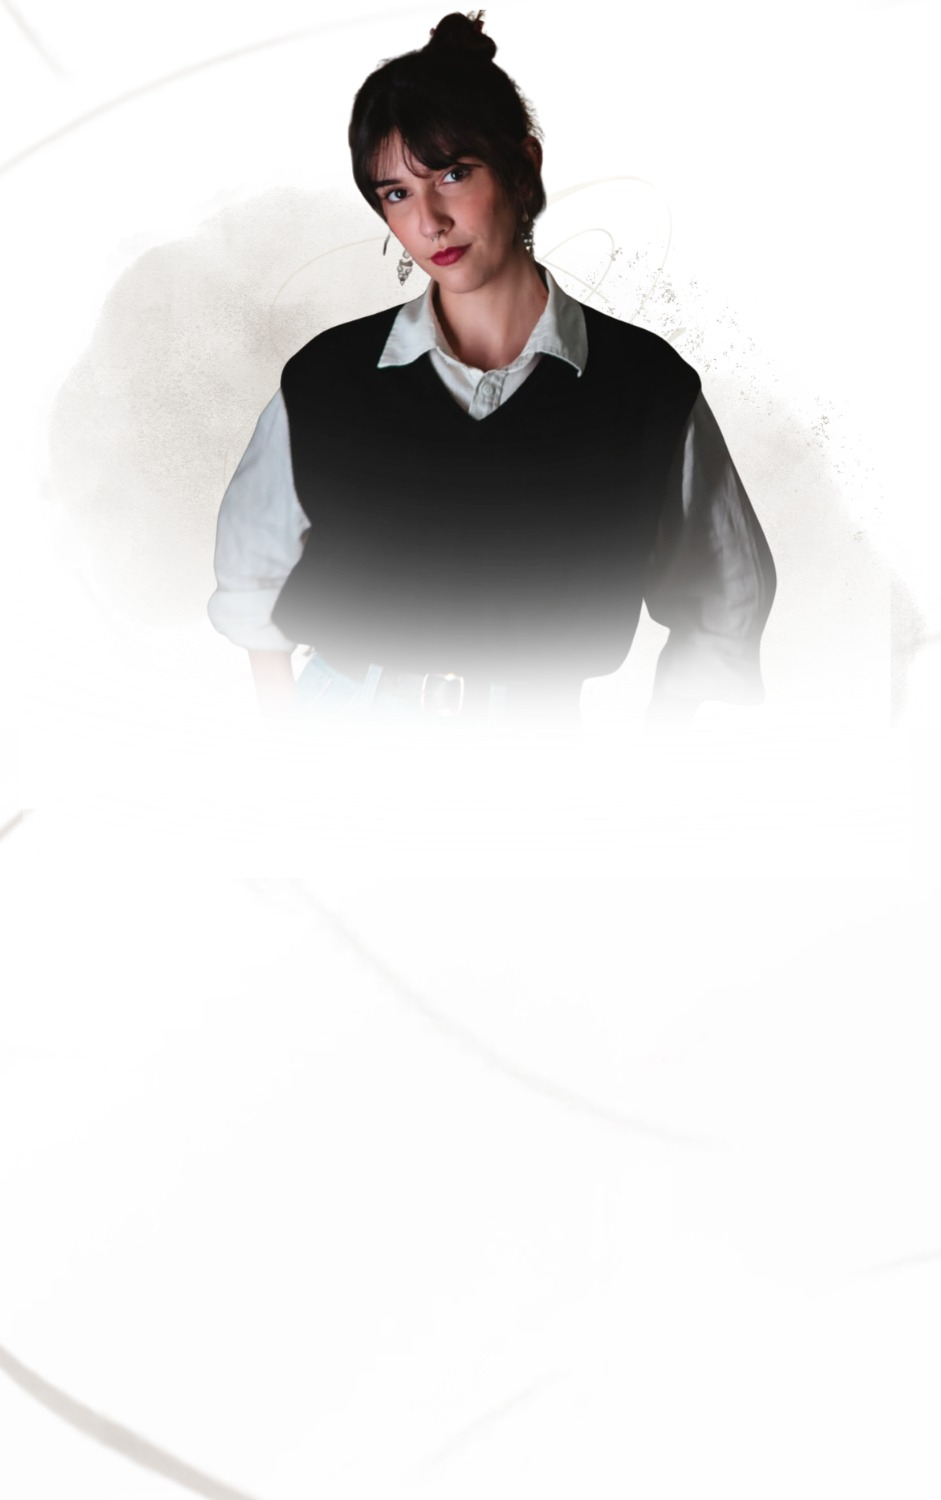
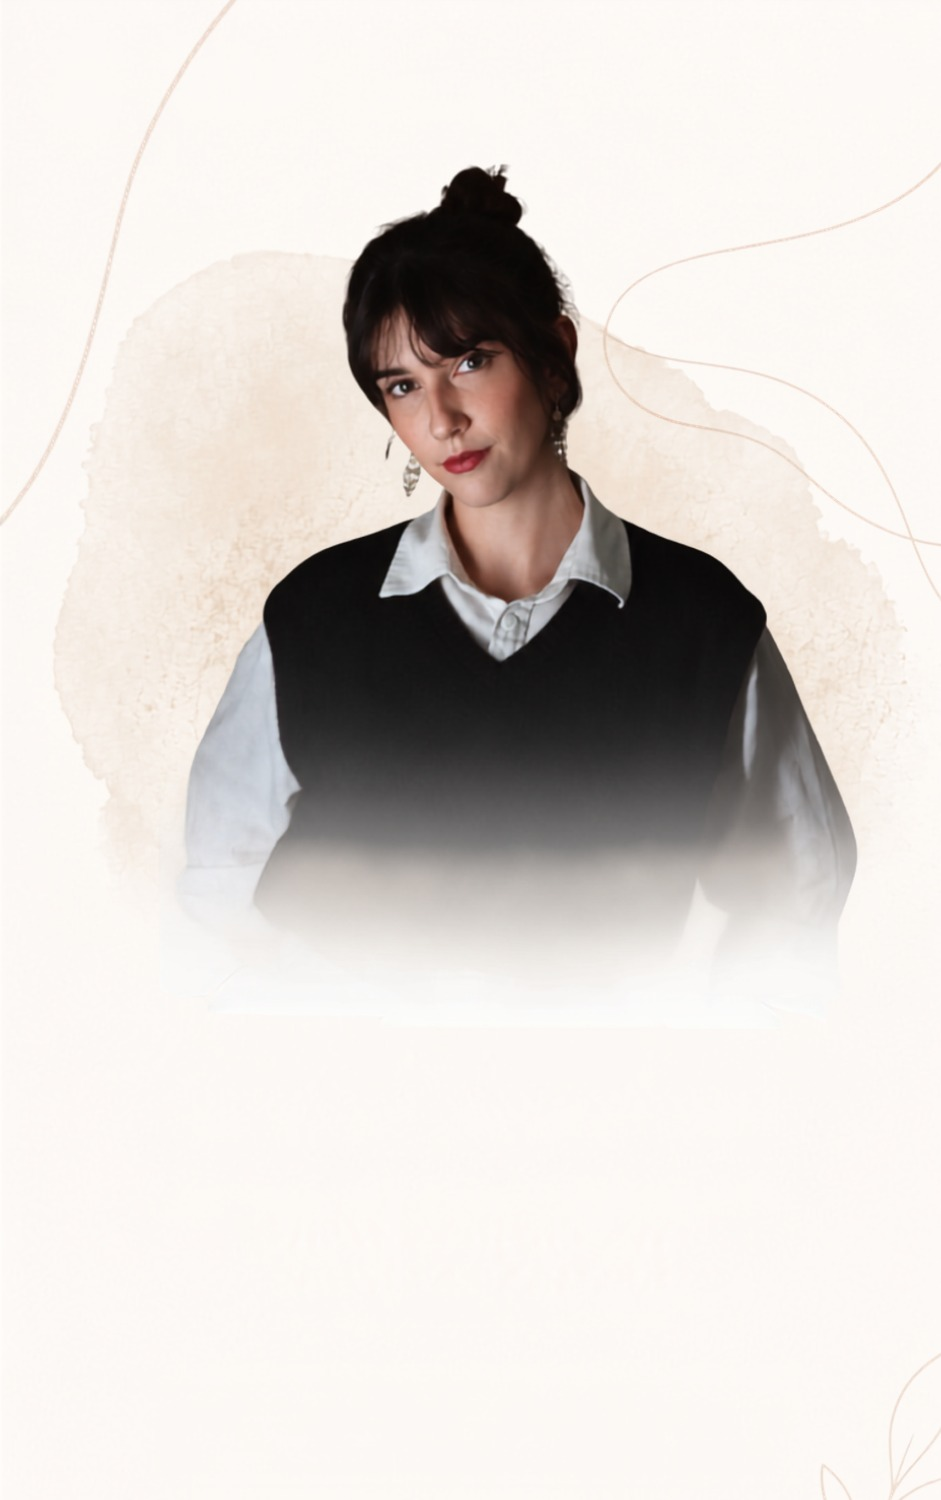
Corrige credencial exibida, redesenha Hero mobile e ajusta header
- Remove todas as menções a "psicóloga" (ela é psicanalista, não
  psicóloga) e o número de CRP, exibido incorretamente no rodapé e na
  imagem de compartilhamento — corrige título do site, SEO, og-image
- Hero mobile: nova foto de fundo, ordem PSICANALISTA acima do nome,
  texto reposicionado mais para baixo, seção mais alta
- Header mobile volta a ficar transparente sobre a foto da Hero e fica
  sólido ao rolar a página; no desktop continua sempre sólido

diff --git a/src/components/Hero.tsx b/src/components/Hero.tsx
@@ -1,5 +1,5 @@
 import Image from "next/image";
-import { Check, User } from "lucide-react";
+import { ArrowRight, Check, User } from "lucide-react";
 import { heroContent } from "@/data/content";
 import Reveal from "./Reveal";
 import WhatsappIcon from "./WhatsappIcon";
@@ -17,7 +17,7 @@ const desktopScrimStyle = {
 
 export default function Hero() {
   return (
-    <section className="relative min-h-[760px] overflow-hidden bg-white sm:min-h-[820px] lg:min-h-0 lg:aspect-[1898/887] lg:w-full lg:bg-[#080706]">
+    <section className="relative min-h-[880px] overflow-hidden bg-cream sm:min-h-[940px] lg:min-h-0 lg:aspect-[1898/887] lg:w-full lg:bg-[#080706]">
       <Image
         src={heroContent.image.mobileSrc}
         alt={heroContent.image.alt}
@@ -41,17 +41,15 @@ export default function Hero() {
       <div className="pointer-events-none absolute inset-x-0 bottom-0 h-[65%] bg-gradient-to-t from-white/90 via-white/50 to-transparent lg:hidden" />
       <div className="pointer-events-none absolute inset-0 hidden lg:block" style={desktopScrimStyle} />
 
-      <div className="absolute inset-0 flex flex-col justify-end px-6 pt-24 pb-20 sm:pb-24 lg:justify-center lg:px-0 lg:pt-0 lg:pb-0">
-        <div className="mx-auto w-full max-w-7xl lg:mx-auto lg:max-w-[1898px] lg:px-[9vw]">
+      <div className="absolute inset-0 flex flex-col justify-end px-6 pt-24 pb-2 sm:pb-4 lg:justify-start lg:px-0 lg:pt-28 lg:pb-0">
+        <div className="mx-auto w-full max-w-7xl lg:mx-auto lg:max-w-[1898px] lg:px-[13vw]">
           <Reveal>
             <div className="flex flex-col items-center text-center lg:items-start lg:text-left">
-              <p className="order-2 mb-6 text-sm font-medium tracking-[0.2em] text-gold-bright uppercase lg:order-1 lg:mb-0 lg:text-[13px] lg:font-semibold lg:tracking-[0.22em] lg:text-[#C95C35]">
+              <p className="order-1 mb-2 text-sm font-medium tracking-[0.2em] text-gold uppercase lg:order-1 lg:mb-0 lg:font-lato lg:text-[13px] lg:font-medium lg:tracking-[3px] lg:text-[#C95C35]">
                 {heroContent.subtitle}
               </p>
 
-              <span className="hidden lg:order-1 lg:mt-3 lg:mb-5 lg:block lg:h-[2px] lg:w-[50px] lg:bg-[#C95C35]" />
-
-              <h1 className="order-1 mb-2 max-w-2xl font-serif text-4xl leading-tight text-ink sm:text-6xl lg:order-2 lg:mb-6 lg:max-w-none lg:text-[76px] lg:leading-[0.95] lg:tracking-[-0.025em] lg:whitespace-nowrap lg:text-[#F5F2ED]">
+              <h1 className="order-2 mb-6 max-w-2xl font-serif text-4xl leading-tight text-ink sm:text-6xl lg:order-2 lg:mb-0 lg:text-[26px] lg:leading-tight lg:font-normal lg:text-[#F5F2ED]">
                 {heroFirstName}
                 {heroLastName && (
                   <>
@@ -62,44 +60,58 @@ export default function Hero() {
                 )}
               </h1>
 
-              <p className="order-3 mb-2 hidden max-w-md text-lg leading-relaxed text-ink/85 sm:block lg:order-3 lg:mb-3 lg:max-w-[510px] lg:text-[28px] lg:leading-[1.3] lg:font-normal lg:text-[#F4F0EB]">
+              <span className="hidden lg:order-3 lg:mt-4 lg:mb-6 lg:block lg:h-px lg:w-10 lg:bg-[#C95C35]/70" />
+
+              <p className="order-3 mb-2 hidden max-w-md text-lg leading-relaxed text-ink/85 sm:block lg:order-4 lg:mb-0 lg:font-serif lg:text-[52px] lg:leading-[1.08] lg:font-normal lg:text-[#F5F2ED]">
                 {heroContent.taglineStart}
               </p>
-              <p className="order-3 mb-10 hidden max-w-md text-lg leading-relaxed text-ink/85 sm:block lg:order-3 lg:mb-9 lg:max-w-[500px] lg:text-[19px] lg:leading-[1.55] lg:text-[#D8C1A2]">
+              <p className="order-3 mb-10 hidden max-w-md text-lg leading-relaxed text-ink/85 sm:block lg:order-4 lg:mb-7 lg:font-serif lg:text-[52px] lg:leading-[1.08] lg:font-normal lg:text-[#F5F2ED]">
                 {heroContent.taglineHighlight}
+              </p>
+
+              <p className="order-3 mb-10 hidden max-w-md text-lg leading-relaxed text-ink/85 sm:block lg:order-5 lg:mb-8 lg:max-w-[440px] lg:font-heebo lg:text-[17px] lg:leading-[1.6] lg:font-normal lg:text-[#F4F0EB]/70">
+                {heroContent.taglineDescription}
               </p>
 
               <p className="order-4 mb-10 max-w-md text-base leading-relaxed text-ink/90 sm:hidden">
                 {heroContent.mobileTagline}
               </p>
 
-              <ul className="order-4 mb-10 hidden max-w-md space-y-4 sm:block lg:mb-10 lg:space-y-[20px]">
+              <ul className="order-4 mb-10 hidden max-w-md space-y-4 sm:block lg:order-6 lg:mb-10 lg:hidden">
                 {heroContent.bullets.map((bullet) => (
-                  <li key={bullet} className="flex items-start gap-3 lg:items-center lg:gap-[14px]">
-                    <span className="mt-0.5 flex h-6 w-6 shrink-0 items-center justify-center rounded-full border-2 border-gold-bright text-gold-bright lg:mt-0 lg:border-[#D05F35] lg:text-[#D05F35]">
+                  <li key={bullet} className="flex items-start gap-3">
+                    <span className="mt-0.5 flex h-6 w-6 shrink-0 items-center justify-center rounded-full border-2 border-gold-bright text-gold-bright">
                       <Check size={13} strokeWidth={3} />
                     </span>
-                    <span className="text-ink/90 lg:text-[#F4F0EB]">{bullet}</span>
+                    <span className="text-ink/90">{bullet}</span>
                   </li>
                 ))}
               </ul>
 
-              <div className="order-5 flex w-full flex-col gap-3 sm:w-auto sm:flex-row sm:flex-wrap sm:justify-center sm:gap-4 lg:justify-start lg:gap-[30px]">
+              <p className="hidden lg:order-6 lg:mb-10 lg:block lg:font-heebo lg:text-[14px] lg:text-[#C95C35]/70">
+                {heroContent.bullets.join("  ·  ")}
+              </p>
+
+              <div className="order-5 flex w-full flex-col gap-3 sm:w-auto sm:flex-row sm:flex-wrap sm:justify-center sm:gap-4 lg:order-7 lg:w-auto lg:flex-row lg:flex-wrap lg:items-center lg:justify-start lg:gap-6">
                 <a
                   href={heroContent.primaryCta.href}
                   target="_blank"
                   rel="noopener noreferrer"
-                  className="hover-float inline-flex w-full items-center justify-center gap-2 rounded-tl-[15px] rounded-br-[15px] border border-transparent bg-gold-bright px-8 py-3 font-lato text-sm font-normal tracking-[1.3px] text-white uppercase transition-colors duration-300 hover:border-gold-bright hover:bg-transparent hover:text-gold-bright sm:w-auto lg:h-16 lg:w-[360px] lg:bg-[#C55F37] lg:hover:border-[#C55F37] lg:hover:bg-transparent lg:hover:text-[#C55F37]"
+                  className="hover-float inline-flex w-full items-center justify-center gap-2 rounded-full border border-transparent bg-gold-bright px-8 py-3 font-lato text-sm font-normal tracking-[1.3px] text-white uppercase transition-colors duration-300 hover:border-gold-bright hover:bg-transparent hover:text-gold-bright sm:w-auto lg:w-auto lg:rounded-tl-md lg:rounded-tr-md lg:rounded-br-md lg:rounded-bl-md lg:bg-[#C55F37] lg:px-7 lg:py-3.5 lg:text-[13px] lg:tracking-[1.5px] lg:hover:border-[#C55F37] lg:hover:bg-transparent lg:hover:text-[#C55F37]"
                 >
-                  {heroContent.primaryCta.label}
-                  <WhatsappIcon size={14} />
+                  <span className="lg:hidden">{heroContent.primaryCta.mobileLabel}</span>
+                  <span className="hidden lg:inline">{heroContent.primaryCta.label}</span>
+                  <span className="lg:hidden">
+                    <WhatsappIcon size={14} />
+                  </span>
+                  <ArrowRight size={16} className="hidden lg:block" />
                 </a>
                 <a
                   href={heroContent.secondaryCta.href}
-                  className="hover-float inline-flex w-full items-center justify-center gap-2 rounded-tl-[15px] rounded-br-[15px] border border-gold-bright bg-white px-8 py-3 font-lato text-sm font-normal tracking-[1.3px] text-ink uppercase transition-colors duration-300 hover:bg-gold-bright hover:text-white sm:w-auto lg:h-16 lg:w-[270px] lg:border-[#C55F37] lg:bg-transparent lg:text-[#C55F37] lg:hover:bg-[#C55F37] lg:hover:text-white"
-                >
-                  {heroContent.secondaryCta.label}
-                  <User size={14} />
+                  className="hover-float inline-flex w-full items-center justify-center gap-2 rounded-full border border-gold-bright bg-white px-8 py-3 font-lato text-sm font-normal tracking-[1.3px] text-ink uppercase transition-colors duration-300 hover:bg-gold-bright hover:text-white sm:w-auto lg:w-auto lg:justify-start lg:border-0 lg:bg-transparent lg:p-0 lg:font-heebo lg:text-[15px] lg:font-normal lg:tracking-normal lg:text-[#C95C35] lg:normal-case lg:underline lg:decoration-[#C95C35]/40 lg:underline-offset-4 lg:hover:bg-transparent lg:hover:text-[#C95C35]">
+                  <span className="lg:hidden">{heroContent.secondaryCta.mobileLabel}</span>
+                  <span className="hidden lg:inline">{heroContent.secondaryCta.label}</span>
+                  <User size={14} className="lg:hidden" />
                 </a>
               </div>
             </div>

diff --git a/src/data/content.ts b/src/data/content.ts
@@ -9,8 +9,7 @@ export const siteConfig = {
   brand: "AFETO",
   professionalName: "Nicole Amorim",
   professionalNameShort: "Nicole Amorim",
-  crp: "CRP-MG 04/78461",
-  title: "Psicóloga Clínica",
+  title: "Psicanalista Clínica",
   city: "São João del-Rei - MG",
   phoneDisplay: "(32) 99199-3814",
   phoneWhatsapp: "5532991993814",
@@ -41,23 +40,22 @@ export const headerCta = {
 
 export const heroContent = {
   title: "Nicole Amorim",
-  subtitle: "PSICÓLOGA E PSICANALISTA",
-  taglineStart: "Você sente que carrega tudo sozinha, mesmo quando não devia?",
-  taglineHighlight:
-    "Ofereço um espaço seguro e acolhedor para você entender o que sente, fortalecer sua autoestima e construir uma vida emocional mais equilibrada.",
+  subtitle: "PSICANALISTA",
+  taglineStart: "Você não precisa",
+  taglineHighlight: "carregar tudo sozinha.",
+  taglineDescription:
+    "Um espaço de escuta para compreender o que você sente, fortalecer sua autoestima e construir relações mais leves e conscientes.",
   // Exibida só no mobile, no lugar dos bullets (que ficam só a partir do sm).
   mobileTagline:
-    "A terapia é um convite para olhar para si com mais cuidado, compreender seus conflitos e descobrir novas possibilidades para a sua vida.",
-  bullets: [
-    "Atendimento individual e de casal.",
-    "Abordagem psicanalítica.",
-    "Atendimento Presencial (São João Del Rei) e on-line.",
-  ],
+    "Um espaço de escuta e acolhimento para compreender seus conflitos e encontrar novos caminhos.",
+  bullets: ["Atendimento individual e de casal", "Presencial em São João del-Rei", "Online"],
   primaryCta: {
-    label: "MAIS INFORMAÇÕES",
+    // No mobile o rótulo é mais direto; no desktop (lg) usamos label abaixo.
+    mobileLabel: "AGENDAR ATENDIMENTO",
+    label: "AGENDAR UMA CONVERSA",
     href: `https://wa.me/${siteConfig.phoneWhatsapp}`,
   },
-  secondaryCta: { label: "SOBRE MIM", href: "#sobre" },
+  secondaryCta: { mobileLabel: "SOBRE MIM", label: "Conhecer meu trabalho", href: "#sobre" },
   // Foto composta especificamente para o fundo único do Hero: parede lisa
   // à esquerda (onde o texto fica) e a Nicole nítida à direita — não precisa
   // de gradiente escuro artificial por cima, a própria foto já tem o contraste.
@@ -72,9 +70,9 @@ export const heroContent = {
 
 export const introContent = {
   heading: "Um espaço para",
-  headingHighlight: "cuidar de si e das suas relações.",
+  headingHighlight: "pensar sobre si e suas relações.",
   paragraph:
-    "A terapia é um convite para desacelerar, ouvir a si mesmo e compreender o que te move. Aqui, você encontra um ambiente seguro e livre de julgamentos para elaborar emoções, melhorar seus relacionamentos e viver com mais equilíbrio e sentido.",
+    "O processo terapêutico é uma oportunidade de refletir sobre a vida e seu cotidiano, uma pausa para repensar o que costuma funcionar no automático e um convite para criar seu próprio modo de navegar pelo mundo.",
   items: [
     {
       icon: "message-heart",
@@ -101,11 +99,11 @@ export const aboutContent = {
     alt: "Retrato de Nicole Amorim",
   },
   formationIcon: "graduation-cap",
-  formationText: "Psicóloga com especialização em Psicologia e Psicanálise.",
+  formationText: "Psicanalista formada pela Universidade Federal de São João del-Rei (UFSJ).",
   eyebrow: "OLÁ, SOU NICOLE",
   heading: "Uma trajetória dedicada ao cuidado emocional",
   paragraphs: [
-    "Atendo adolescentes, adultos e casais em processos de análise pessoal, com foco em quem deseja se conhecer melhor e transformar questões que incomodam — não trabalho com uma área voltada a diagnósticos específicos.",
+    "Atendo adolescentes, adultos e casais, a partir do enfoque psicanalítico, que coloca em voga seus desejos pessoais, seus conflitos e seu modo de se relacionar com o mundo.",
     "Acredito que a terapia não se limita a aliviar o sofrimento, mas também a compreender como ele se constrói. Meu trabalho busca oferecer um espaço de escuta em que cada pessoa possa se implicar em sua própria história, reconhecendo padrões, conflitos e formas de se relacionar consigo mesma e com os outros.",
     "Mais do que oferecer respostas prontas, procuro construir, junto ao paciente, novas formas de viver sua própria história, sempre a partir da abordagem psicanalítica.",
     "Ofereço uma escuta atenta para ajudar cada pessoa a construir um saber próprio sobre sua história e diminuir o sofrimento diante dos conflitos da vida.",

diff --git a/src/components/Header.tsx b/src/components/Header.tsx
@@ -1,20 +1,38 @@
 "use client";
 
-import { useState } from "react";
+import { useEffect, useState } from "react";
 import Image from "next/image";
 import { Menu, X, CalendarDays } from "lucide-react";
 import { navLinks, siteConfig, headerCta, heroContent } from "@/data/content";
 
 export default function Header() {
   const [isOpen, setIsOpen] = useState(false);
+  // No mobile o header nasce transparente por cima da foto do Hero (que é
+  // clara, por isso o texto continua escuro mesmo transparente) e vira
+  // sólido assim que a página rola, pra não ficar ilegível sobre outras
+  // seções. No desktop ele é sempre sólido.
+  const [isScrolled, setIsScrolled] = useState(false);
+
+  useEffect(() => {
+    const onScroll = () => setIsScrolled(window.scrollY > 40);
+    onScroll();
+    window.addEventListener("scroll", onScroll, { passive: true });
+    return () => window.removeEventListener("scroll", onScroll);
+  }, []);
+
+  const solid = isScrolled || isOpen;
 
   return (
-    <header id="topo" className="sticky top-0 right-0 left-0 z-50">
+    <header id="topo" className="fixed top-0 right-0 left-0 z-50 lg:sticky">
       {/* O blur fica num wrapper interno (não no <header>) para que o
           overlay mobile abaixo, que usa position:fixed, não seja contido
           por esse backdrop-filter (filter cria um novo containing block
           para fixed, o que quebrava o overlay em tela cheia). */}
-      <div className="relative z-50 bg-white/95 shadow-sm backdrop-blur-sm">
+      <div
+        className={`relative z-50 transition-colors duration-300 lg:bg-white/95 lg:shadow-sm lg:backdrop-blur-sm ${
+          solid ? "bg-cream shadow-sm backdrop-blur-sm" : "bg-transparent"
+        }`}
+      >
         <div className="mx-auto flex max-w-7xl items-center justify-between px-6 py-4 lg:px-8">
           <a href="#topo" className="flex items-center gap-3">
             <Image

diff --git a/src/app/layout.tsx b/src/app/layout.tsx
@@ -49,8 +49,8 @@ export const metadata: Metadata = {
   title: `${siteConfig.professionalName} | ${siteConfig.title} em ${siteConfig.city}`,
   description: `Psicoterapia para adultos, casais e famílias com abordagem psicanalítica. Atendimento presencial em ${siteConfig.city} e online. Agende uma conversa.`,
   keywords: [
-    "psicóloga",
-    "psicóloga clínica",
+    "psicanalista",
+    "psicanalista clínica",
     "psicoterapia",
     "terapia online",
     "São João del-Rei",

diff --git a/src/components/Footer.tsx b/src/components/Footer.tsx
@@ -14,7 +14,7 @@ export default function Footer() {
               {siteConfig.professionalName}
             </p>
             <p className="text-[13px] font-semibold tracking-[0.22em] text-gold uppercase">
-              {siteConfig.title} — {siteConfig.crp}
+              {siteConfig.title}
             </p>
             <a
               href={siteConfig.instagramUrl}
